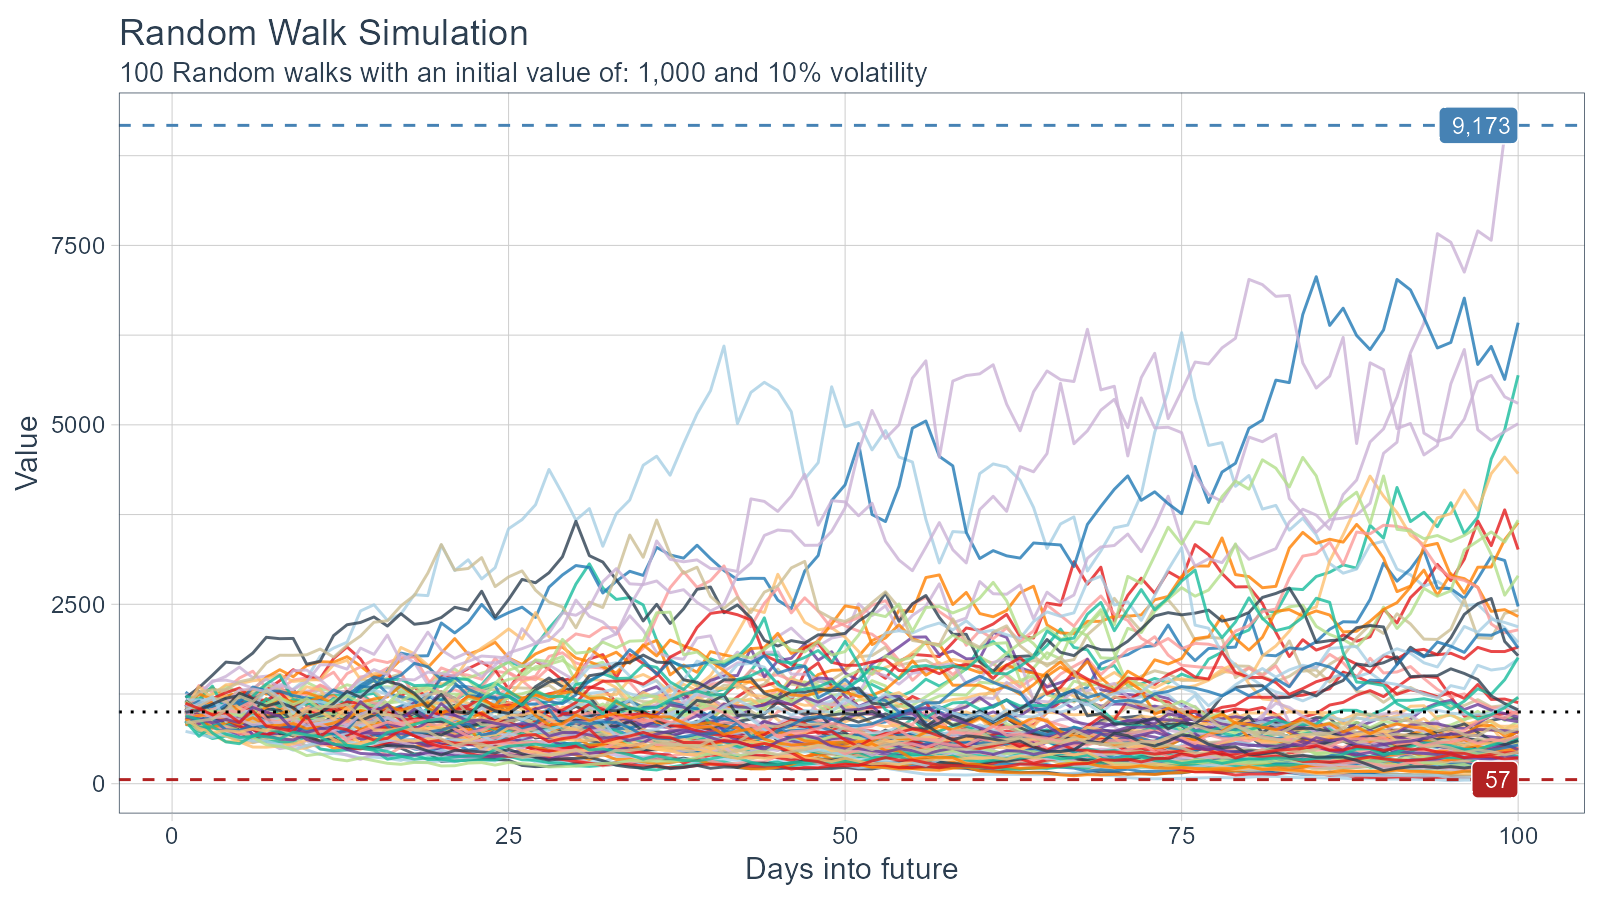
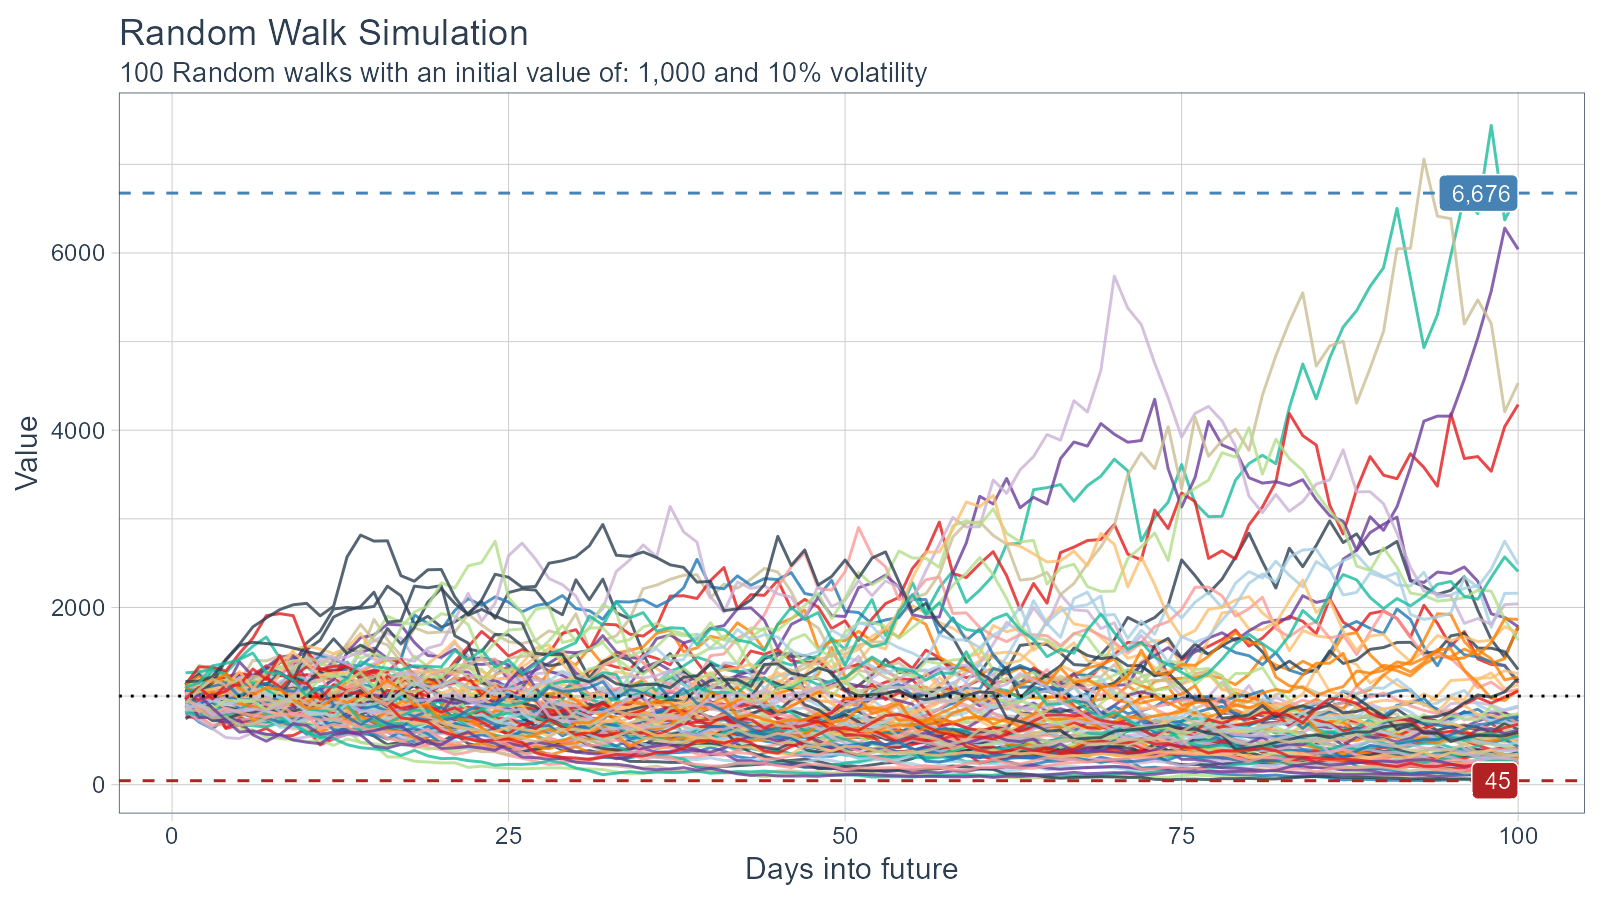
fix reference page

diff --git a/docs/articles/getting-started.html b/docs/articles/getting-started.html
@@ -94,7 +94,7 @@
             <h3 class="subtitle">A Quick Introduction</h3>
                         <h4 class="author">Steven P. Sanderson II, MPH</h4>
             
-            <h4 class="date">2020-12-06</h4>
+            <h4 class="date">2020-12-07</h4>
       
       <small class="dont-index">Source: <a href="https://github.com/spsanderson/healthyR.ts/blob/master/vignettes/getting-started.Rmd"><code>vignettes/getting-started.Rmd</code></a></small>
       <div class="hidden name"><code>getting-started.Rmd</code></div>
@@ -113,21 +113,21 @@
 <code class="sourceCode R"><span class="va">df</span> <span class="op">&lt;-</span> <span class="fu"><a href="../reference/ts_random_walk.html">ts_random_walk</a></span><span class="op">(</span><span class="op">)</span>
 <span class="fu"><a href="https://rdrr.io/r/utils/head.html">head</a></span><span class="op">(</span><span class="va">df</span><span class="op">)</span>
 <span class="co">#&gt; # A tibble: 6 x 4</span>
-<span class="co">#&gt;     run     x        y cum_y</span>
-<span class="co">#&gt;   &lt;dbl&gt; &lt;dbl&gt;    &lt;dbl&gt; &lt;dbl&gt;</span>
-<span class="co">#&gt; 1     1     1  0.0844  1084.</span>
-<span class="co">#&gt; 2     1     2  0.0106  1096.</span>
-<span class="co">#&gt; 3     1     3  0.0237  1122.</span>
-<span class="co">#&gt; 4     1     4  0.0809  1213.</span>
-<span class="co">#&gt; 5     1     5  0.0357  1256.</span>
-<span class="co">#&gt; 6     1     6 -0.00752 1246.</span>
+<span class="co">#&gt;     run     x       y cum_y</span>
+<span class="co">#&gt;   &lt;dbl&gt; &lt;dbl&gt;   &lt;dbl&gt; &lt;dbl&gt;</span>
+<span class="co">#&gt; 1     1     1  0.135  1135.</span>
+<span class="co">#&gt; 2     1     2 -0.101  1021.</span>
+<span class="co">#&gt; 3     1     3  0.0804 1103.</span>
+<span class="co">#&gt; 4     1     4  0.0666 1176.</span>
+<span class="co">#&gt; 5     1     5  0.0455 1230.</span>
+<span class="co">#&gt; 6     1     6 -0.0146 1212.</span>
 <span class="fu"><a href="https://tibble.tidyverse.org/reference/glimpse.html">glimpse</a></span><span class="op">(</span><span class="va">df</span><span class="op">)</span>
 <span class="co">#&gt; Rows: 10,000</span>
 <span class="co">#&gt; Columns: 4</span>
 <span class="co">#&gt; $ run   &lt;dbl&gt; 1, 1, 1, 1, 1, 1, 1, 1, 1, 1, 1, 1, 1, 1, 1, 1, 1, 1, 1, 1, 1...</span>
 <span class="co">#&gt; $ x     &lt;dbl&gt; 1, 2, 3, 4, 5, 6, 7, 8, 9, 10, 11, 12, 13, 14, 15, 16, 17, 18...</span>
-<span class="co">#&gt; $ y     &lt;dbl&gt; 0.084397624, 0.010623071, 0.023657801, 0.080917632, 0.0356955...</span>
-<span class="co">#&gt; $ cum_y &lt;dbl&gt; 1084.3976, 1095.9173, 1121.8442, 1212.6212, 1255.9064, 1246.4...</span></code></pre></div>
+<span class="co">#&gt; $ y     &lt;dbl&gt; 0.135170417, -0.100814786, 0.080367107, 0.066645143, 0.045541...</span>
+<span class="co">#&gt; $ cum_y &lt;dbl&gt; 1135.170, 1020.728, 1102.761, 1176.255, 1229.823, 1211.807, 1...</span></code></pre></div>
 <p>Now that the data has been generated, lets take a look at it.</p>
 <div class="sourceCode" id="cb3"><pre class="downlit sourceCode r">
 <code class="sourceCode R"><span class="va">df</span> <span class="op">%&gt;%</span>

diff --git a/docs/reference/index.html b/docs/reference/index.html
@@ -171,12 +171,6 @@
           <p><code><a href="ts_random_walk.html">ts_random_walk()</a></code> </p>
         </td>
         <td><p>Random Walk Function</p></td>
-      </tr><tr>
-        
-        <td>
-          <p><code><a href="ts_random_walk_ggplot_layers.html">ts_random_walk_ggplot_layers()</a></code> </p>
-        </td>
-        <td><p>Get Random Walk <code>ggplot2</code> layers</p></td>
       </tr>
     </tbody><tbody>
       <tr>
